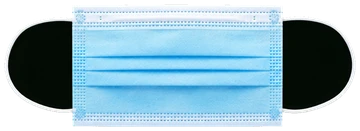
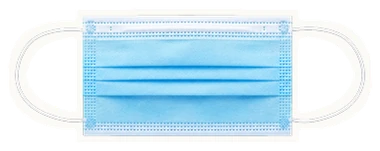
Restore the 18 board components in paper-cut style
Match the original board: coffee stain, perfume vial, red string, bus
ticket, crumpled paper, and empty pocket replace the extra objects, and
every cutout gets a baked-in off-white paper backing so the pieces read
as cut paper. Fix chroma-key artifacts on enclosed regions (red string
loop, mask ear loops).

diff --git a/js/data.js b/js/data.js
@@ -1,34 +1,31 @@
-/** Memory objects — one asset file per component from the board. */
+/** The 18 board components — one paper-cut asset file each. */
 const memories = [
   { name: "Metro Card", asset: "assets/objects/metro-card.webp", note: "moving through the city" },
-  { name: "Dried Leaf", asset: "assets/objects/dried-leaf.webp", note: "quiet from the park" },
-  { name: "Rubber Band", asset: "assets/objects/rubber-band.webp", note: "holding things loosely" },
-  { name: "Torn Paper", asset: "assets/objects/torn-paper.webp", note: "a thought unfinished" },
-  { name: "Receipt", asset: "assets/objects/receipt.webp", note: "a moment I might forget" },
-  { name: "Stone", asset: "assets/objects/stone.webp", note: "heavy in my pocket" },
+  { name: "Coffee Stain", asset: "assets/objects/coffee-stain.webp", note: "warmth, a pause" },
+  { name: "Small Stone", asset: "assets/objects/stone.webp", note: "heavy in my pocket" },
   { name: "Key", asset: "assets/objects/key.webp", note: "a door, for a while" },
   { name: "Photo Strip", asset: "assets/objects/photo-strip.webp", note: "faces that stayed" },
-  { name: "Lip Balm", asset: "assets/objects/lip-balm.webp", note: "a small comfort" },
-  { name: "Envelope", asset: "assets/objects/envelope.webp", note: "something unsent" },
-  { name: "Paperclip", asset: "assets/objects/paperclip-large.webp", note: "holding fragments together" },
-  { name: "Face Covering", asset: "assets/objects/face-mask.webp", note: "protection, habit" },
-  { name: "Coin", asset: "assets/objects/coin.webp", note: "small change, many times" },
-  { name: "Ticket Stub", asset: "assets/objects/ticket-stub.webp", note: "a short ride" },
-  { name: "Clip", asset: "assets/objects/paperclip.webp", note: "tiny, but useful" },
-  { name: "Orange Band", asset: "assets/objects/rubber-band-orange.webp", note: "an invisible connection" },
+  { name: "Dried Leaf", asset: "assets/objects/dried-leaf.webp", note: "quiet from the park" },
   { name: "Sticky Note", asset: "assets/objects/sticky-note.webp", note: "small but important" },
-  { name: "Pencil", asset: "assets/objects/pencil.webp", note: "unfinished thoughts" },
+  { name: "Receipt", asset: "assets/objects/receipt.webp", note: "a moment I might forget" },
+  { name: "Perfume", asset: "assets/objects/perfume.webp", note: "a scene returning as smell" },
+  { name: "Red String", asset: "assets/objects/red-string.webp", note: "an invisible connection" },
+  { name: "Face Covering", asset: "assets/objects/face-mask.webp", note: "protection, habit" },
   { name: "Concert Ticket", asset: "assets/objects/concert-ticket.webp", note: "a night that changed speed" },
-  { name: "Tissue", asset: "assets/objects/crumpled-tissue.webp", note: "a pause, then gone" },
-  { name: "Cloth", asset: "assets/objects/microfiber-cloth.webp", note: "clearing the surface" }
+  { name: "Crumpled Paper", asset: "assets/objects/crumpled-paper.webp", note: "a thought I did not keep" },
+  { name: "Coin", asset: "assets/objects/coin.webp", note: "small change, many times" },
+  { name: "Paper Clip", asset: "assets/objects/paperclip.webp", note: "holding fragments together" },
+  { name: "Pencil", asset: "assets/objects/pencil.webp", note: "unfinished thoughts" },
+  { name: "Bus Ticket", asset: "assets/objects/bus-ticket.webp", note: "a short ride" },
+  { name: "Empty Pocket", asset: "assets/objects/empty-pocket.webp", note: "something lost, or never had" }
 ];
 
-/** Six pockets release every board asset (21 objects). */
+/** Six pockets × three objects each. */
 const sequences = [
-  [5, 6, 7, 14],
+  [17, 2, 3],
   [0, 1, 4],
-  [18, 12, 13, 19],
-  [11, 17, 16],
-  [15, 10, 3, 20],
-  [8, 9, 2]
+  [11, 13, 7],
+  [5, 10, 15],
+  [9, 14, 12],
+  [16, 8, 6]
 ];

diff --git a/index.html b/index.html
@@ -41,7 +41,7 @@
 
     <section class="archive">
       <div class="archive-head">
-        <span id="progressText">0 / 21</span>
+        <span id="progressText">0 / 18</span>
         <span id="memoryTitle">closed</span>
       </div>
       <div id="memoryTable" class="memory-table" aria-live="polite">
@@ -59,9 +59,9 @@
     </article>
   </template>
 
-  <script src="js/data.js?v=7"></script>
-  <script src="js/sound.js?v=7"></script>
-  <script src="js/drag.js?v=7"></script>
-  <script src="js/app.js?v=7"></script>
+  <script src="js/data.js?v=8"></script>
+  <script src="js/sound.js?v=8"></script>
+  <script src="js/drag.js?v=8"></script>
+  <script src="js/app.js?v=8"></script>
 </body>
 </html>

diff --git a/js/app.js b/js/app.js
@@ -41,7 +41,7 @@
     piece.dataset.memoryIndex = i;
     piece.style.setProperty("--r", `${(Math.random() * 7 - 3.5).toFixed(1)}deg`);
 
-    cutout.src = `${memory.asset}?v=7`;
+    cutout.src = `${memory.asset}?v=8`;
     cutout.alt = memory.name;
     cutout.decoding = "async";
 
